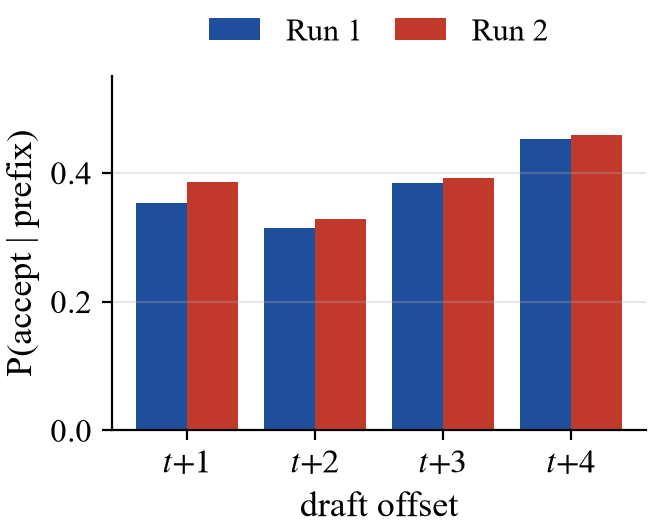
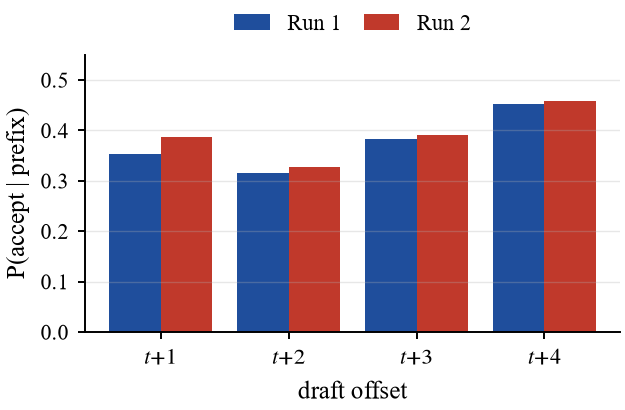
Focus README on results and training, smaller chart text
- README leads with the two runs' results and the training steps
- charts use body-size text; add tokens-per-round chart
- memory plot marks the actual GPU size instead of a fixed 6 GB
- no minimum GPU size claimed; document batch-size trade for smaller GPUs

diff --git a/draftforge/plots.py b/draftforge/plots.py
@@ -17,8 +17,8 @@ from .util import LOG, read_json, read_jsonl, now_ts  # noqa: E402
 
 plt.rcParams.update({
     "figure.dpi": 130, "savefig.dpi": 130,
-    "font.size": 14, "axes.titlesize": 16, "axes.labelsize": 15,
-    "xtick.labelsize": 13, "ytick.labelsize": 13, "legend.fontsize": 12,
+    "font.size": 11, "axes.titlesize": 13, "axes.labelsize": 12,
+    "xtick.labelsize": 10.5, "ytick.labelsize": 10.5, "legend.fontsize": 10,
     "axes.grid": True, "grid.alpha": 0.25, "axes.spines.top": False,
     "axes.spines.right": False,
 })
@@ -138,10 +138,14 @@ def _p_gpu_mem(ctx: Ctx, ax) -> None:
     rows_of = lambda n: [r for r in ctx.train_rows(n) if r.get("gpu_mem_gb")]  # noqa: E731
     if not _lines(ctx, ax, rows_of, "gpu_mem_gb", lw=2):
         _nodata(ax, "no memory samples yet")
-    ax.axhline(6.0, ls="--", lw=1.5, color="#dc2626")
-    ax.text(0.02, 6.0, "6 GB card limit", color="#dc2626", ha="left",
-            va="bottom", transform=ax.get_yaxis_transform())
-    ax.set(xlabel="step", ylabel="GB", title="Peak GPU memory", ylim=(0, 6.8))
+    env = ((read_json(P.manifest, {}) or {}).get("stages", {}).get("env") or {})
+    total = (env.get("meta") or {}).get("vram_gb")
+    if total:
+        ax.axhline(total, ls="--", lw=1.5, color="#dc2626")
+        ax.text(0.02, total, "%.1f GB on this GPU" % total, color="#dc2626",
+                ha="left", va="bottom", transform=ax.get_yaxis_transform())
+        ax.set_ylim(0, total * 1.12)
+    ax.set(xlabel="step", ylabel="GB", title="Peak GPU memory")
 
 
 def _p_acceptance(ctx: Ctx, ax) -> None:
@@ -336,7 +340,7 @@ def make(only: List[str] | None = None, stamp: bool = False) -> List[Path]:
     for ax in flat[len(names):]:
         ax.axis("off")
     fig.get_layout_engine().set(h_pad=0.15, w_pad=0.15)
-    fig.suptitle("draftforge - %s" % now_ts(), fontsize=20, fontweight="bold")
+    fig.suptitle("draftforge - %s" % now_ts(), fontsize=16, fontweight="bold")
     dash = P.plots / ("dashboard" + suffix + ".png")
     fig.savefig(dash)
     plt.close(fig)

diff --git a/README.md b/README.md
@@ -1,20 +1,48 @@
 # understudy-lm
 
-A small understudy for **Qwen3.5-4B**: a speculative-decoding draft model
-trained from the 4B's text alone, on a single 6 GB laptop GPU. The 4B only
-needs to be reachable through Ollama.
+A speculative-decoding draft model for **Qwen3.5-4B**, trained only on the text
+the 4B writes. Each pass it guesses the next four tokens; the 4B checks them in
+one step and keeps the ones it agrees with, so the output is unchanged.
+
+## Results
+
+| | Run 1 | Run 2 |
+|---|---|---|
+| Pretraining data | 4B answers only | 75% public chat + 25% 4B answers |
+| Best validation loss | 3.68 (overfit after step 4K) | **3.16** (still falling at 12K) |
+| Tokens per 4B pass | 1.52 | **1.58** |
+| Projected speedup | 1.38x | **1.43x** |
+
+| Training loss | Acceptance per guess |
+|---|---|
+| ![Loss](assets/val_loss.png) | ![Acceptance](assets/acceptance.png) |
+| **Tokens produced per round** | **Projected speedup** |
+| ![Round tokens](assets/round_tokens.png) | ![Speedup](assets/speedup.png) |
+
+## How it is trained
+
+1. **Generate:** Qwen3.5-4B (through Ollama) answers 40K prompts, giving 13.4M tokens.
+2. **Corpus:** 305M tokens of public chat (SmolTalk, Tulu 3), minus those prompts.
+3. **Pretrain:** a 109M-parameter decoder on 75% corpus / 25% 4B answers, 12K steps.
+4. **Post-train:** add three lookahead heads, train on the 4B's answers only, 3K steps.
+5. **Evaluate:** replay greedy speculative decoding over held-out 4B answers.
 
 ## Run
 
-Needs Python 3.10+ and an NVIDIA GPU with 6 GB or more.
+Needs Python 3.10+ and an NVIDIA GPU.
 
 ```bash
 python run.py
 ```
 
-That one command installs dependencies, pulls the 4B, generates training data,
-trains the draft, evaluates it and writes graphs. It resumes where it stopped,
-so Ctrl+C and run it again any time. Keep the laptop plugged in.
+That one command installs dependencies, pulls the 4B, generates data, trains,
+evaluates and writes graphs. It resumes where it stopped, so Ctrl+C and run it
+again any time. Training peaks at about 4 GB of GPU memory with the defaults;
+on a smaller GPU, trade batch size for accumulation before the first run:
+
+```bash
+python run.py --set batch_size=4 --set grad_accum=16
+```
 
 ```bash
 python run.py --status    # progress
@@ -22,18 +50,3 @@ python run.py --summary   # results
 python plots.py           # redraw graphs into out/plots
 python selftest.py        # 1-minute check of the whole pipeline
 ```
-
-## Results
-
-| | |
-|---|---|
-| Draft size | 109M parameters (95M of it the shared 248K-token embedding) |
-| Tokens per 4B pass | 1.58 |
-| Projected speedup | **1.43x** |
-| Training time | 12.9 h pretrain + 11.4 h post-train |
-
-| Mixing in a chat corpus stopped overfitting | Acceptance per draft position |
-|---|---|
-| ![Validation loss](assets/val_loss.png) | ![Acceptance](assets/acceptance.png) |
-| **Draft round vs one 4B step** | **Projected speedup** |
-| ![Draft latency](assets/latency.png) | ![Speedup](assets/speedup.png) |
